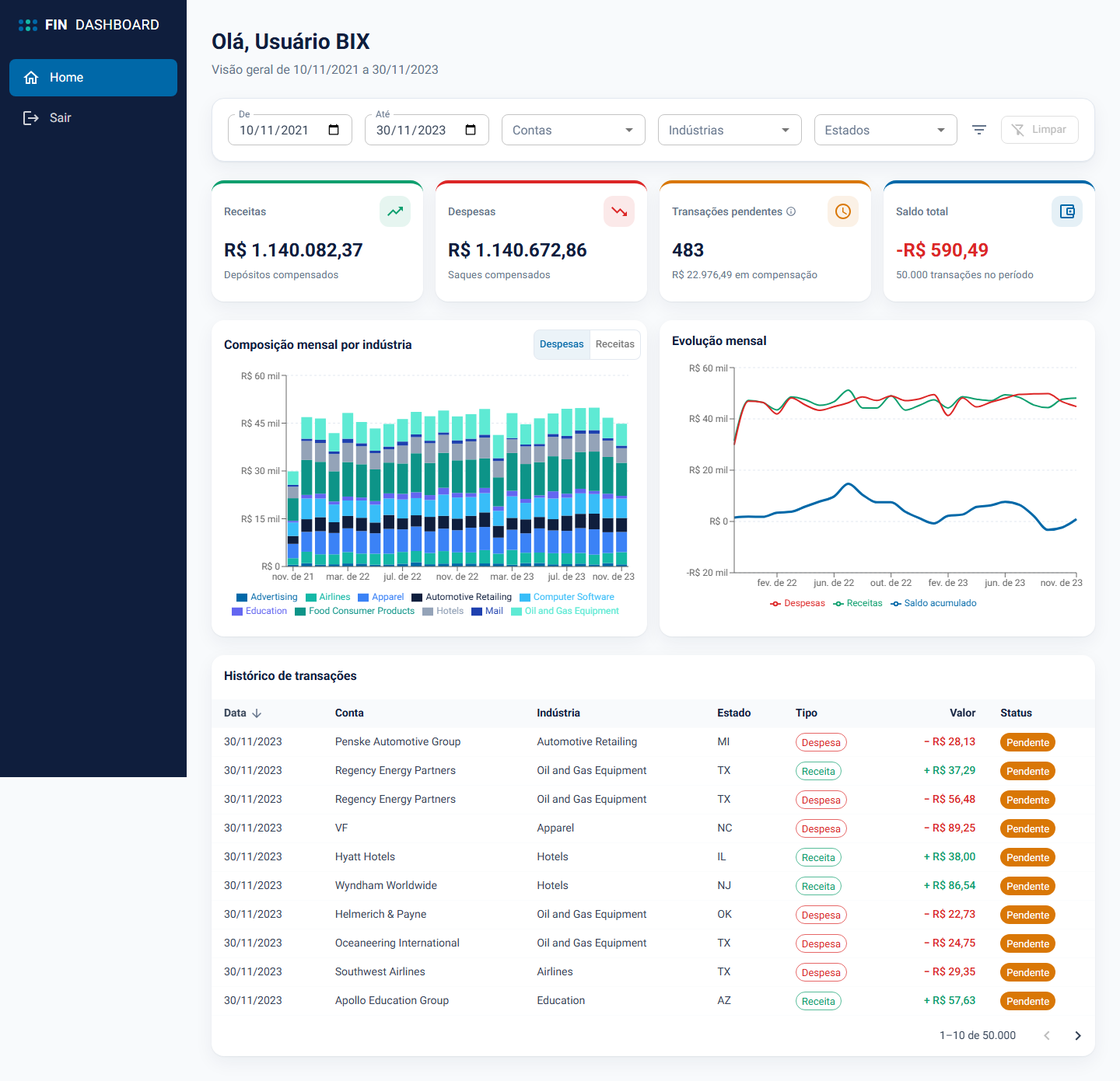
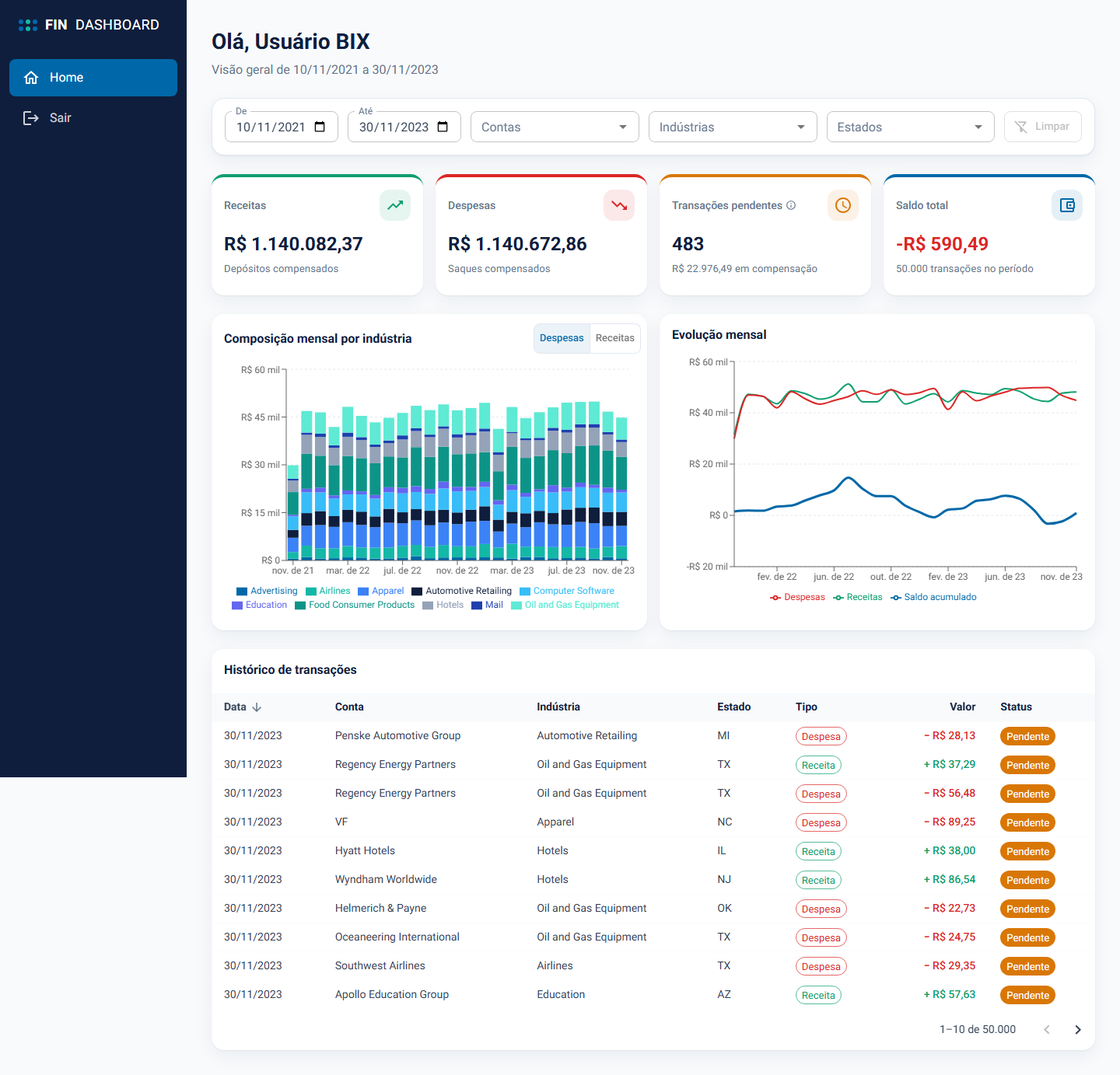
docs: professional README with badges, stack, quick start and one-click deploy

diff --git a/README.md b/README.md
@@ -1,105 +1,169 @@
-# Dashboard Financeiro
+<div align="center">
 
-Dashboard para análise de saldos, receitas, despesas, transações pendentes e histórico de transações, construído com **Next.js 16 (App Router)**, **TypeScript**, **Material UI** e **styled-components**.
+# 📊 Dashboard Financeiro
+
+**Análise de receitas, despesas, saldo e transações pendentes sobre 50 mil transações, com filtros dinâmicos, gráficos e histórico paginado.**
+
+[![CI](https://github.com/FlaviaMMartini/dashboard-financeiro/actions/workflows/ci.yml/badge.svg)](https://github.com/FlaviaMMartini/dashboard-financeiro/actions/workflows/ci.yml)
+[![Coverage](https://img.shields.io/badge/coverage-100%25-brightgreen?logo=jest&logoColor=white)](jest.config.ts)
+[![E2E](https://img.shields.io/badge/e2e-Playwright-2EAD33?logo=playwright&logoColor=white)](e2e/dashboard.spec.ts)
+[![Conventional Commits](https://img.shields.io/badge/Conventional%20Commits-1.0.0-FE5196?logo=conventionalcommits&logoColor=white)](https://www.conventionalcommits.org)
+[![Code style: Prettier](https://img.shields.io/badge/code_style-prettier-F7B93E?logo=prettier&logoColor=white)](.prettierrc.json)
+
+[![Next.js](https://img.shields.io/badge/Next.js-16-000000?logo=nextdotjs&logoColor=white)](https://nextjs.org)
+[![React](https://img.shields.io/badge/React-19-61DAFB?logo=react&logoColor=black)](https://react.dev)
+[![TypeScript](https://img.shields.io/badge/TypeScript-strict-3178C6?logo=typescript&logoColor=white)](tsconfig.json)
+[![Material UI](https://img.shields.io/badge/Material_UI-9-007FFF?logo=mui&logoColor=white)](https://mui.com)
+[![styled-components](https://img.shields.io/badge/styled--components-6-DB7093?logo=styledcomponents&logoColor=white)](https://styled-components.com)
+[![Zod](https://img.shields.io/badge/Zod-4-3E67B1?logo=zod&logoColor=white)](https://zod.dev)
+
+[![Deploy with Vercel](https://vercel.com/button)](https://vercel.com/new/clone?repository-url=https%3A%2F%2Fgithub.com%2FFlaviaMMartini%2Fdashboard-financeiro&env=SESSION_SECRET&envDescription=Segredo%20de%20no%20m%C3%ADnimo%2032%20caracteres%20para%20assinar%20o%20cookie%20de%20sess%C3%A3o&project-name=dashboard-financeiro)
 
 ![Dashboard no desktop](docs/screenshots/desktop-dashboard.png)
+
+</div>
+
+## Sumário
+
+- [Sobre o projeto](#sobre-o-projeto)
+- [Como rodar em 1 minuto](#como-rodar-em-1-minuto)
+- [Stack](#stack)
+- [Funcionalidades](#funcionalidades)
+- [Arquitetura](#arquitetura)
+- [Decisões técnicas (ADRs)](#decisões-técnicas-adrs)
+- [Qualidade e testes](#qualidade-e-testes)
+- [Scripts e configuração](#scripts-e-configuração)
+- [Deploy](#deploy)
+
+## Sobre o projeto
+
+Dashboard financeira desenvolvida como desafio técnico de front-end. O usuário faz login e acessa uma dashboard protegida. Nela, filtra as transações por **período, contas, indústrias e estados** e todo o conteúdo se atualiza a partir dos filtros: cards de resumo, gráfico de barras empilhadas, gráfico de linhas e histórico paginado.
+
+A fonte de dados é o arquivo `transactions.json` fornecido no desafio (**50.000 transações, 11,7 MB**), mantido **sem nenhuma alteração** (um teste confere o hash SHA-256). Os dados são processados **no servidor**, com cache do Next.js, e o navegador recebe apenas alguns KB já agregados.
+
+A identidade visual segue a da BIX Tecnologia: azul `#0068A8`, azul-marinho `#0F1E3D`, texto `#334155` e fonte Roboto.
 
 | Login                                        | Mobile                                                        |
 | -------------------------------------------- | ------------------------------------------------------------- |
 | ![Login](docs/screenshots/desktop-login.png) | ![Dashboard no mobile](docs/screenshots/mobile-dashboard.png) |
 
-## Acesso de demonstração
+## Como rodar em 1 minuto
+
+> Requisitos: **Node.js 20.9 ou superior** (recomendado: 24, fixado em `.nvmrc`) e **npm**.
+
+```bash
+git clone https://github.com/FlaviaMMartini/dashboard-financeiro.git
+cd dashboard-financeiro
+npm install
+npm run dev
+```
+
+Abra **http://localhost:3000** e entre com a conta de demonstração:
 
 | E-mail             | Senha      |
 | ------------------ | ---------- |
 | `admin@bix.com.br` | `bix@2024` |
 
-## Como rodar
+Em desenvolvimento nenhuma configuração é necessária.
 
-Requisitos: **Node.js 20.9+** (o projeto fixa Node 24 em `.nvmrc`) e npm.
+<details>
+<summary><strong>Rodar o build de produção</strong></summary>
 
-```bash
-npm install
-cp .env.example .env.local   # opcional em desenvolvimento, obrigatório em produção
-npm run dev                  # http://localhost:3000
-```
-
-Build de produção:
+Em produção, `SESSION_SECRET` é obrigatório (mínimo de 32 caracteres). O `.env.example` já traz um valor de exemplo:
 
 ```bash
+cp .env.example .env.local
 npm run build
 npm start
 ```
 
-> Em produção, `SESSION_SECRET` (mínimo de 32 caracteres) é obrigatório. Em desenvolvimento há um valor padrão para o projeto rodar sem configuração.
+Para gerar um segredo próprio:
 
-### Scripts
+```bash
+node -e "console.log(require('crypto').randomBytes(32).toString('hex'))"
+```
 
-| Script                            | O que faz                                                        |
-| --------------------------------- | ---------------------------------------------------------------- |
-| `npm run dev`                     | Servidor de desenvolvimento                                      |
-| `npm run build` / `npm start`     | Build e servidor de produção                                     |
-| `npm run lint`                    | ESLint (Next, TypeScript, ordem de imports)                      |
-| `npm run typecheck`               | `tsc --noEmit` em modo estrito                                   |
-| `npm run format` / `format:check` | Prettier                                                         |
-| `npm test`                        | Testes unitários e de componentes (Jest + Testing Library)       |
-| `npm run test:coverage`           | Testes com cobertura; **falha abaixo de 100%**                   |
-| `npm run test:e2e`                | E2E com Playwright (desktop + mobile) contra o build de produção |
+</details>
 
-Na primeira execução do E2E, instale o navegador: `npx playwright install chromium`.
+<details>
+<summary><strong>Rodar os testes</strong></summary>
 
-### Variáveis de ambiente
+```bash
+npm run test:coverage                # unitários + componentes, com cobertura (mínimo 100%)
+npx playwright install chromium      # apenas na primeira vez
+npm run test:e2e                     # E2E em desktop e mobile, contra o build de produção
+```
 
-| Variável             | Padrão                                 | Descrição                         |
-| -------------------- | -------------------------------------- | --------------------------------- |
-| `SESSION_SECRET`     | valor de dev (apenas fora de produção) | Segredo HMAC do cookie de sessão  |
-| `DEMO_USER_NAME`     | `Usuário BIX`                          | Nome exibido na dashboard         |
-| `DEMO_USER_EMAIL`    | `admin@bix.com.br`                     | E-mail do usuário de demonstração |
-| `DEMO_USER_PASSWORD` | `bix@2024`                             | Senha do usuário de demonstração  |
+</details>
+
+## Stack
+
+| Camada       | Tecnologia                                                                                                            |
+| ------------ | --------------------------------------------------------------------------------------------------------------------- |
+| Framework    | **Next.js 16** (App Router, Server Components, Server Actions, Cache Components, Partial Prerendering) + **React 19** |
+| Linguagem    | **TypeScript** em modo estrito (`noUncheckedIndexedAccess`)                                                           |
+| Componentes  | **Material UI 9** com a integração oficial para o App Router                                                          |
+| Estilização  | **styled-components 6**, com tema único compartilhado com o MUI                                                       |
+| Gráficos     | **Recharts** (SVG)                                                                                                    |
+| Validação    | **Zod 4** (dataset, search params, formulário e variáveis de ambiente)                                                |
+| Autenticação | JWT HS256 com **jose**, em cookie `HttpOnly`                                                                          |
+| Testes       | **Jest** + **Testing Library** (unitários e componentes) e **Playwright** (E2E)                                       |
+| Qualidade    | ESLint, Prettier, Husky, lint-staged, commitlint                                                                      |
+| CI           | GitHub Actions                                                                                                        |
 
 ## Funcionalidades
 
-- **Login** e **dashboard protegida**: o proxy (`src/proxy.ts`) bloqueia rotas sem sessão e a página valida a sessão de novo antes de ler os dados.
-- **Filtros globais e dinâmicos** por período, contas, indústrias e estados. Todo o conteúdo (cards, gráficos e tabela) é recalculado a partir deles.
-- **Filtros em cascata**: selecionar uma indústria ou um estado restringe as contas disponíveis, e vice-versa.
-- **Cards** de receitas, despesas, transações pendentes e saldo total.
-- **Gráfico de barras empilhadas** com a composição mensal por indústria, alternando entre despesas e receitas.
-- **Gráfico de linhas** com receitas, despesas e saldo acumulado por mês.
-- **Histórico de transações** com paginação e ordenação no servidor.
-- **Sidebar exclusiva** da dashboard com Home e Logout. No mobile, vira um drawer.
-- **Sessão e filtros persistidos sem banco de dados**.
-- **Responsivo** de 320px a telas largas, com skeletons de carregamento, estados vazios e página de erro com "tentar novamente".
+- 🔐 **Login e dashboard protegida.** O proxy (`src/proxy.ts`) bloqueia as rotas sem sessão, e a página valida a sessão de novo antes de ler os dados.
+- 🎛 **Filtros globais e dinâmicos** por período, contas, indústrias e estados. Cards, gráficos e tabela são recalculados a partir deles.
+- 🔗 **Filtros em cascata.** Selecionar uma indústria ou um estado restringe as contas disponíveis, e vice-versa. Os valores já selecionados continuam na lista para poderem ser desmarcados.
+- 💳 **Cards** de receitas, despesas, transações pendentes e saldo total.
+- 📊 **Gráfico de barras empilhadas** com a composição mensal por indústria, alternando entre despesas e receitas.
+- 📈 **Gráfico de linhas** com receitas, despesas e saldo acumulado por mês.
+- 📋 **Histórico de transações** com paginação e ordenação no servidor.
+- 🧭 **Sidebar exclusiva da dashboard** com Home e Sair. No mobile, vira um menu lateral.
+- 💾 **Sessão e filtros persistidos sem banco de dados**, na URL e em cookies.
+- 📱 **Responsivo**, de 320px a telas largas, com skeletons de carregamento, estados vazios e tela de erro com "Tentar novamente".
+- ♿ **Acessível**: controles rotulados, `aria-sort` na tabela, descrições textuais nos gráficos e navegação por teclado.
 
 ## Arquitetura
 
 ```
-data/transactions.json        # dataset original, intocado (verificado por hash em teste)
+data/transactions.json            # dataset original, intocado (hash verificado em teste)
 src/
-├─ app/                       # rotas: /login, /dashboard (layout, page, loading, error)
-├─ proxy.ts                   # autenticação + persistência/restauração de filtros
-├─ domain/                    # regras de negócio puras (sem React, sem Next)
-│  ├─ transaction.ts          # schema Zod do dataset + normalização
-│  ├─ filters.ts              # parse/serialize de URL e aplicação de filtros
-│  ├─ filter-options.ts       # opções em cascata
-│  ├─ aggregations.ts         # resumo, série mensal, composição por indústria
-│  ├─ pending.ts              # regra de pendentes (ADR-001)
-│  ├─ table.ts                # paginação e ordenação
-│  └─ money.ts / dates.ts     # formatação em pt-BR, sempre em UTC
-├─ server/                    # somente servidor (`server-only`)
+├─ app/                           # rotas: /login e /dashboard (layout, page, loading, error)
+├─ proxy.ts                       # autenticação + persistência e restauração dos filtros
+├─ domain/                        # regras de negócio puras (sem React, sem Next)
+│  ├─ transaction.ts              # schema Zod do dataset + normalização
+│  ├─ filters.ts                  # parse/serialize da URL e aplicação dos filtros
+│  ├─ filter-options.ts           # opções em cascata
+│  ├─ aggregations.ts             # resumo, série mensal e composição por indústria
+│  ├─ pending.ts                  # regra de pendentes (ADR-001)
+│  ├─ table.ts                    # paginação e ordenação
+│  └─ money.ts · dates.ts         # formatação pt-BR, sempre em UTC
+├─ server/                        # somente servidor (`server-only`)
 │  ├─ transactions-repository.ts  # lê e valida o JSON uma vez por processo
 │  ├─ dashboard-service.ts        # agregação com `'use cache'`
 │  └─ env.ts                      # variáveis de ambiente validadas com Zod
 ├─ features/
-│  ├─ auth/                   # sessão JWT, Server Actions, formulário de login
-│  └─ dashboard/              # shell, filtros, cards, gráficos, tabela
-└─ styles/                    # tema único, providers, registry de SSR
+│  ├─ auth/                       # sessão, Server Actions e formulário de login
+│  └─ dashboard/                  # shell, filtros, cards, gráficos e tabela
+└─ styles/                        # tema único, providers e registry de SSR
 ```
 
-**Fluxo de uma requisição:** URL (`/dashboard?states=TX&from=…`) → `proxy.ts` (valida a sessão e salva os filtros) → `page.tsx` (Server Component: faz o parse dos search params com Zod) → `getDashboardOverview` + `getTransactionsPage` (em paralelo, cada um com seu cache) → `DashboardView` (Client Component). Uma interação altera a URL com `router.push` dentro de uma `transition`, e o servidor recalcula tudo.
+**Fluxo de uma requisição:**
+
+```
+URL (/dashboard?states=TX&from=…)
+  → proxy.ts           valida a sessão e salva os filtros em cookie
+  → page.tsx           Server Component: faz o parse dos search params com Zod
+  → dashboard-service  getDashboardOverview + getTransactionsPage, em paralelo e em cache
+  → DashboardView      Client Component: interações alteram a URL (router.push em transition)
+```
 
 ## Decisões técnicas (ADRs)
 
-### ADR-001: Regra de "transações pendentes"
+<details open>
+<summary><strong>ADR-001: Regra de "transações pendentes"</strong></summary>
 
 O dataset não tem campo de status. Adotamos como "hoje" a **data da transação mais recente do dataset (30/11/2023)**. Transações dos **7 dias anteriores** a essa data são consideradas **pendentes de compensação**:
 
@@ -107,11 +171,14 @@ O dataset não tem campo de status. Adotamos como "hoje" a **data da transação
 - **não** entram em receitas, despesas nem saldo;
 - são marcadas como "Pendente" na tabela.
 
-A regra fica numa função pura (`src/domain/pending.ts`) e aparece em um tooltip no card.
+A regra fica numa função pura (`src/domain/pending.ts`) e é explicada em um tooltip no card.
 
-### ADR-002: Agregação no servidor com cache do Next.js
+</details>
 
-O `transactions.json` tem **50 mil registros (11,7 MB)** e nunca é enviado ao navegador. O repositório lê e valida o arquivo com Zod uma única vez por processo. O cliente recebe apenas alguns KB de dados agregados e uma página da tabela.
+<details>
+<summary><strong>ADR-002: Agregação no servidor, cache em duas partes e paginação</strong></summary>
+
+O `transactions.json` (50 mil registros, 11,7 MB) **nunca é enviado ao navegador**. O repositório lê e valida o arquivo com Zod uma única vez por processo.
 
 O cache usa `'use cache'` (Cache Components), com `cacheLife('hours')` e `cacheTag('transactions')`. Os argumentos de uma função com `'use cache'` formam a chave do cache, por isso ele fica **dividido em duas funções**, buscadas em paralelo:
 
@@ -120,51 +187,104 @@ O cache usa `'use cache'` (Cache Components), com `cacheLife('hours')` e `cacheT
 | `getDashboardOverview(filters)`             | filtros                      | cards, gráficos, opções dos selects |
 | `getTransactionsPage(filters, tableParams)` | filtros + página + ordenação | 10 linhas da tabela                 |
 
-Assim, **trocar de página ou reordenar a tabela não recalcula cards e gráficos**: essa parte vem direto do cache.
+Trocar de página ou reordenar a tabela **não recalcula cards e gráficos**. Com Cache Components, `/dashboard` usa **Partial Prerendering**: o shell (sidebar e skeleton) é estático e os dados chegam por streaming.
 
-**Por que paginação e não rolagem infinita:** a tabela mostra sempre ~10 linhas, com memória constante no navegador. A posição fica na URL (`?page=37`), então dá para compartilhar o link, o voltar do navegador funciona e a página sobrevive ao F5, que é o que um histórico financeiro, usado para conferência, precisa. A rolagem infinita acumula linhas na tela, exigiria virtualizar a lista e perderia a posição ao recarregar. Com um banco de dados real, a paginação por número de página daria lugar à paginação por cursor (keyset), que não degrada em páginas distantes.
+**Paginação em vez de rolagem infinita:** a tabela mostra sempre ~10 linhas, com memória constante no navegador. A posição fica na URL (`?page=37`), então dá para compartilhar o link, o voltar do navegador funciona e a página sobrevive ao F5, que é o que um histórico financeiro, usado para conferência, precisa. A rolagem infinita acumula linhas na tela, exigiria virtualizar a lista e perderia a posição ao recarregar. Com um banco de dados real, a paginação por número de página daria lugar à paginação por cursor (keyset).
 
-Com Cache Components, `/dashboard` usa **Partial Prerendering**: o shell (sidebar e skeleton) é estático e os dados chegam por streaming.
+</details>
 
-### ADR-003: A URL como fonte de verdade e persistência dos filtros sem banco
+<details>
+<summary><strong>ADR-003: A URL como fonte de verdade e persistência sem banco</strong></summary>
 
-- Os filtros e a paginação vivem na **URL**. Isso permite compartilhar links, usar voltar/avançar do navegador e renderizar no servidor sem estado duplicado no cliente.
+- Filtros, página e ordenação vivem na **URL**: dá para compartilhar links, o voltar/avançar funciona e o servidor renderiza sem estado duplicado no cliente.
 - Search params são **não confiáveis**: o schema Zod descarta valores inválidos e inverte intervalos de data trocados.
-- O `proxy.ts` grava o último estado válido (já saneado) em um cookie `HttpOnly`. Ao abrir `/dashboard` sem query, o estado é restaurado. O período é sempre explícito na URL, então "sem query" significa apenas "restaurar".
+- O `proxy.ts` grava o último estado válido (já saneado) em um cookie `HttpOnly`. Ao abrir `/dashboard` sem query, o estado é restaurado.
 
-### ADR-004: Sessão sem banco de dados
+</details>
 
-A sessão é um **JWT HS256 (`jose`) em cookie `HttpOnly`, `SameSite=Lax` e `Secure` em produção**, com validade de 8 horas.
+<details>
+<summary><strong>ADR-004: Sessão sem banco de dados</strong></summary>
 
-- Credenciais comparadas com `timingSafeEqual`.
-- Mensagem de erro genérica, sem revelar se o e-mail existe.
-- Proteção contra open redirect no `?from=`.
+Sessão em **JWT HS256 (`jose`) num cookie `HttpOnly`, `SameSite=Lax` e `Secure` em produção**, com validade de 8 horas.
+
 - O login é uma **Server Action**, e o mesmo schema Zod valida o formulário no cliente e no servidor.
+- Credenciais comparadas com `timingSafeEqual` e mensagem de erro genérica, sem revelar se o e-mail existe.
+- Proteção contra open redirect no parâmetro `?from=`.
 
-### ADR-005: Material UI + styled-components
+</details>
 
-- **Material UI** fornece componentes acessíveis e maduros. Ele usa seu motor padrão (Emotion) com a integração oficial para o App Router (`@mui/material-nextjs`). O motor alternativo de styled-components do MUI tem problemas conhecidos de SSR.
-- **styled-components**, exigido pelo desafio, faz toda a estilização da aplicação: layout, grids responsivos, cards e overrides visuais dos componentes MUI (`styled(Card)`).
-- Os dois leem os **mesmos tokens** de `src/styles/theme.ts`, com as cores da identidade visual da BIX (`#0068A8`, `#0F1E3D`, `#334155` e fonte Roboto). Nenhuma cor fica hardcoded nos componentes.
+<details>
+<summary><strong>ADR-005: Material UI + styled-components</strong></summary>
 
-### ADR-006: Recharts para os gráficos
+- **Material UI** fornece componentes acessíveis e maduros, com seu motor padrão (Emotion) e a integração oficial para o App Router. O motor alternativo de styled-components do MUI tem problemas conhecidos de SSR.
+- **styled-components** faz toda a estilização da aplicação: layout, grids responsivos, cards, tooltip dos gráficos e overrides visuais dos componentes MUI.
+- Os dois leem os **mesmos tokens** de `src/styles/theme.ts`. Nenhuma cor fica hardcoded nos componentes.
+- O projeto começou com Ant Design, que foi substituído porque o registry de SSR do antd usa `Math.random()`, incompatível com Cache Components.
 
-Recharts gera SVG composável e leve. Os formatadores de eixo e tooltip são funções puras testadas isoladamente. Cada gráfico tem descrição textual acessível (`role="figure"`) e estado vazio.
+</details>
+
+<details>
+<summary><strong>ADR-006: Recharts para os gráficos</strong></summary>
+
+Recharts gera SVG composável e leve. O tooltip é um componente próprio: ordena por valor, omite itens zerados e mostra o total nas barras empilhadas. Cada gráfico tem descrição textual acessível (`role="figure"`) e estado vazio.
+
+</details>
 
 ## Qualidade e testes
 
-- **TypeScript estrito**, com `noUncheckedIndexedAccess`.
-- **ESLint + Prettier**, com Husky + lint-staged no pre-commit e commitlint (Conventional Commits).
-- **Jest + Testing Library**: 132 testes com **100% de cobertura** de statements, branches, funções e linhas, garantida por `coverageThreshold`.
-  - Domínio: funções puras e casos de borda (fuso, limites inclusivos, listas vazias, saldo negativo).
-  - Servidor: sessão (expirada, adulterada, payload inválido), Server Actions, proxy, cache e validação de env.
-  - Componentes: renderizados com os providers reais; interações com `user-event` e consultas por papel ARIA.
-  - Integridade: um teste confere o **SHA-256 do `transactions.json`**, garantindo que o arquivo não foi alterado.
-- **Playwright** (desktop + mobile) contra o build de produção: redirecionamento com retorno à origem, erro de login, filtros persistindo após recarregar e logout.
-- **GitHub Actions**: format → lint → typecheck → cobertura → E2E.
+| Verificação             | Ferramenta                         | Onde roda                      |
+| ----------------------- | ---------------------------------- | ------------------------------ |
+| Formatação              | Prettier                           | pre-commit (lint-staged) e CI  |
+| Lint                    | ESLint (Next, TypeScript, imports) | pre-commit e CI                |
+| Tipos                   | `tsc --noEmit` em modo estrito     | CI                             |
+| Mensagens de commit     | commitlint (Conventional Commits)  | hook `commit-msg`              |
+| Unitários e componentes | Jest + Testing Library             | CI, **falha abaixo de 100%**   |
+| Ponta a ponta           | Playwright (desktop + mobile)      | CI, contra o build de produção |
 
-## Deploy (Vercel)
+**O que os testes cobrem:**
 
-1. Importe o repositório na Vercel. O framework é detectado automaticamente.
-2. Configure `SESSION_SECRET` (e, se quiser, as variáveis `DEMO_USER_*`).
-3. O dataset é incluído no bundle serverless via `outputFileTracingIncludes` em `next.config.ts`.
+- **Domínio:** funções puras e casos de borda (fuso horário, limites inclusivos de data, listas vazias, saldo negativo, cascata de filtros).
+- **Servidor:** sessão (expirada, adulterada, payload inválido), Server Actions, proxy, chaves do cache e validação das variáveis de ambiente.
+- **Componentes:** renderizados com os providers reais, com interações via `user-event` e consultas por papel ARIA.
+- **Integridade:** o hash **SHA-256 do `transactions.json`** garante que o arquivo original não foi alterado.
+- **E2E:** redirecionamento com retorno à origem após o login, erro de credenciais, filtros persistindo após recarregar e logout.
+
+## Scripts e configuração
+
+| Script                            | O que faz                             |
+| --------------------------------- | ------------------------------------- |
+| `npm run dev`                     | Servidor de desenvolvimento           |
+| `npm run build` · `npm start`     | Build e servidor de produção          |
+| `npm run lint`                    | ESLint                                |
+| `npm run typecheck`               | Checagem de tipos                     |
+| `npm run format` · `format:check` | Prettier                              |
+| `npm test` · `test:watch`         | Testes unitários e de componentes     |
+| `npm run test:coverage`           | Testes com cobertura (mínimo de 100%) |
+| `npm run test:e2e`                | Testes E2E com Playwright             |
+
+| Variável             | Padrão                                 | Descrição                             |
+| -------------------- | -------------------------------------- | ------------------------------------- |
+| `SESSION_SECRET`     | valor de dev (apenas fora de produção) | Segredo que assina o cookie de sessão |
+| `DEMO_USER_NAME`     | `Usuário BIX`                          | Nome exibido na dashboard             |
+| `DEMO_USER_EMAIL`    | `admin@bix.com.br`                     | E-mail da conta de demonstração       |
+| `DEMO_USER_PASSWORD` | `bix@2024`                             | Senha da conta de demonstração        |
+
+## Deploy
+
+**Vercel (recomendado):** clique em **Deploy with Vercel** no topo desta página e informe um `SESSION_SECRET` com pelo menos 32 caracteres. O dataset é incluído no bundle serverless via `outputFileTracingIncludes` em `next.config.ts`.
+
+**Qualquer ambiente Node.js:**
+
+```bash
+npm ci
+npm run build
+SESSION_SECRET=<segredo-com-32-caracteres-ou-mais> npm start
+```
+
+---
+
+<div align="center">
+
+Desenvolvido por [@FlaviaMMartini](https://github.com/FlaviaMMartini)
+
+</div>
